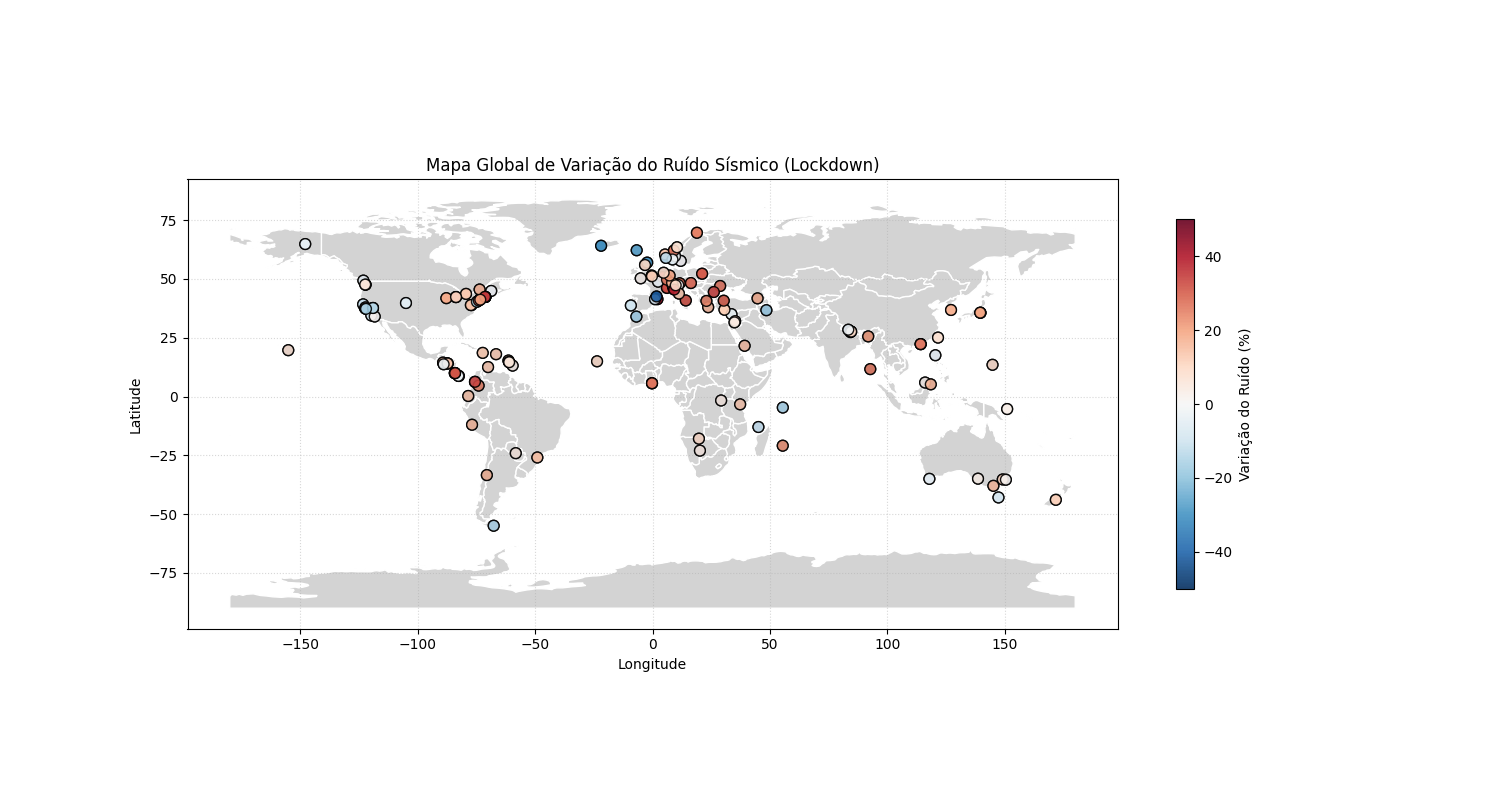
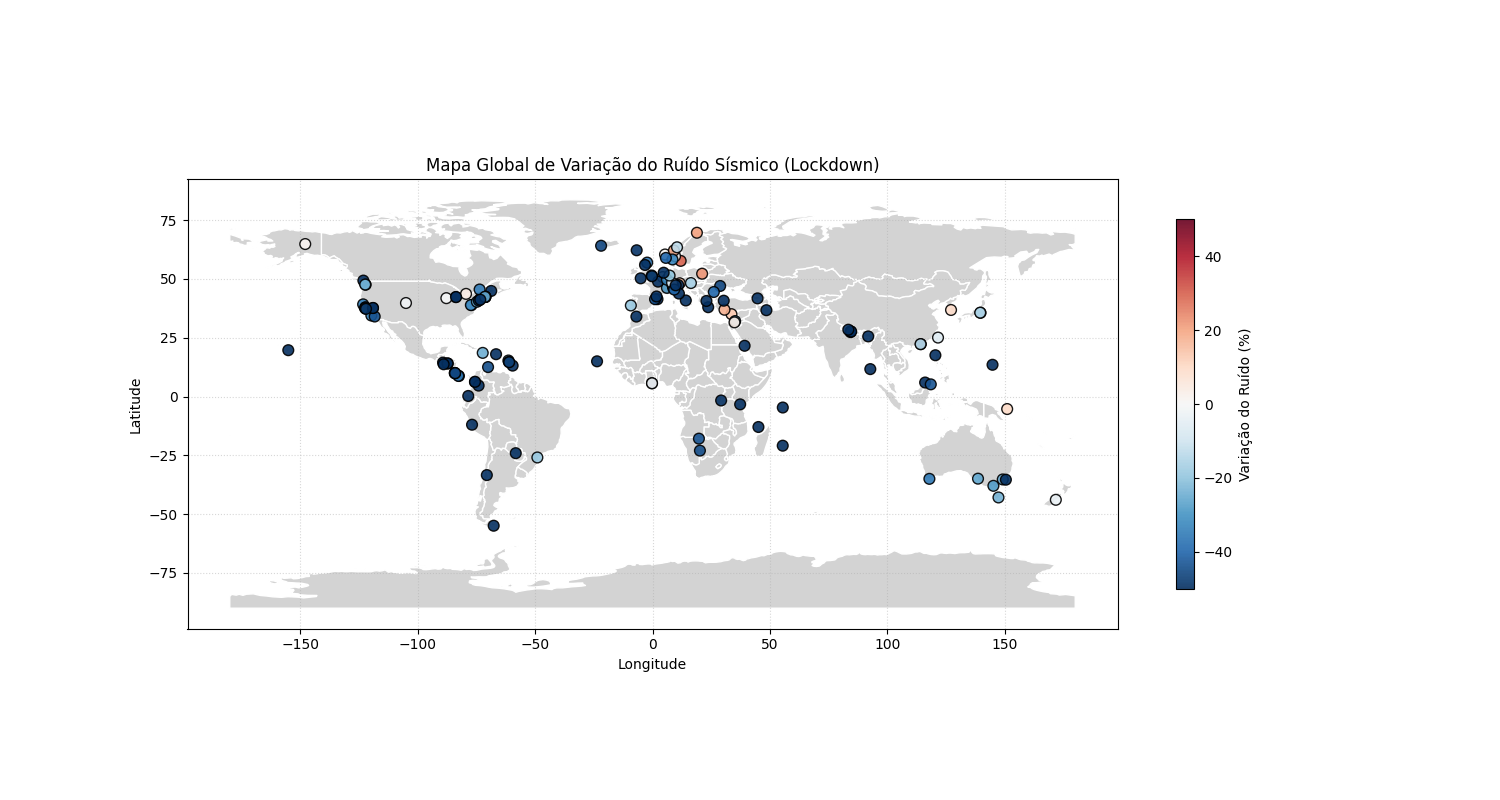
Fix: Filter spatial map to show only Lockdown period (blue/quieting)

diff --git a/02_statistical_analysis.py b/02_statistical_analysis.py
@@ -436,17 +436,22 @@ def perform_analysis():
         print(f"Could not use geopandas for map: {e}")
         use_geopandas = False
 
-    # --- Standard Change Map (Single) ---
+    # --- Standard Change Map (Single - Lockdown Only) ---
     plt.figure(figsize=(15, 8))
+    # Filter for Lockdown period only to show the "quieting"
+    # Using the Period column we created earlier or checking 'condition' if merged
+    # analysis_df has 'Period' from the regression block merge
+    map_plot_data = analysis_df[analysis_df['Period'] == 'Pós-Lockdown (Vermelho)']
+    
     if use_geopandas:
         ax = plt.gca()
         world.plot(ax=ax, color='lightgrey', edgecolor='white')
-        sc = plt.scatter(analysis_df['longitude'], analysis_df['latitude'], 
-                         c=analysis_df['noise_change_pct'], cmap='RdBu_r', 
+        sc = plt.scatter(map_plot_data['longitude'], map_plot_data['latitude'], 
+                         c=map_plot_data['noise_change_pct'], cmap='RdBu_r', 
                          vmin=-50, vmax=50, s=60, alpha=0.9, edgecolor='k', zorder=5)
     else:
-        sc = plt.scatter(analysis_df['longitude'], analysis_df['latitude'], 
-                        c=analysis_df['noise_change_pct'], cmap='RdBu_r', 
+        sc = plt.scatter(map_plot_data['longitude'], map_plot_data['latitude'], 
+                        c=map_plot_data['noise_change_pct'], cmap='RdBu_r', 
                         vmin=-50, vmax=50, s=50, alpha=0.8, edgecolor='k')
     
     plt.colorbar(sc, label='Variação do Ruído (%)', shrink=0.6)
